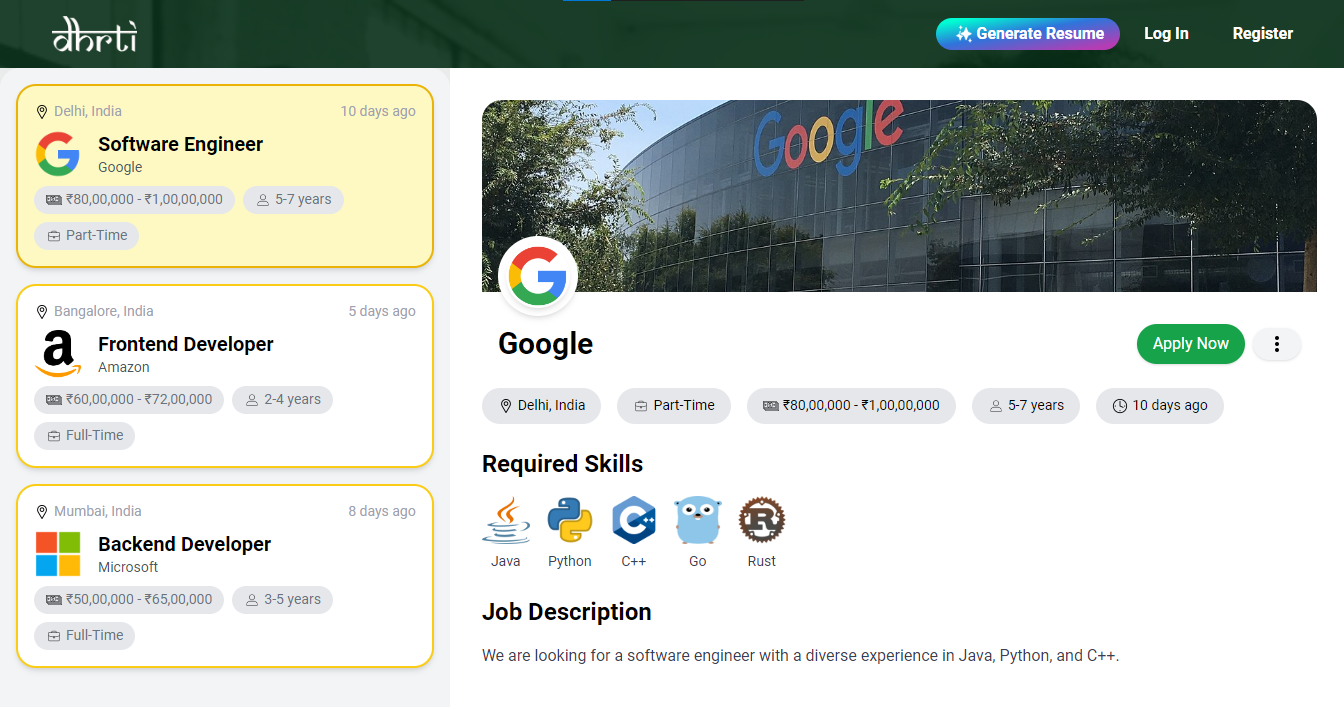
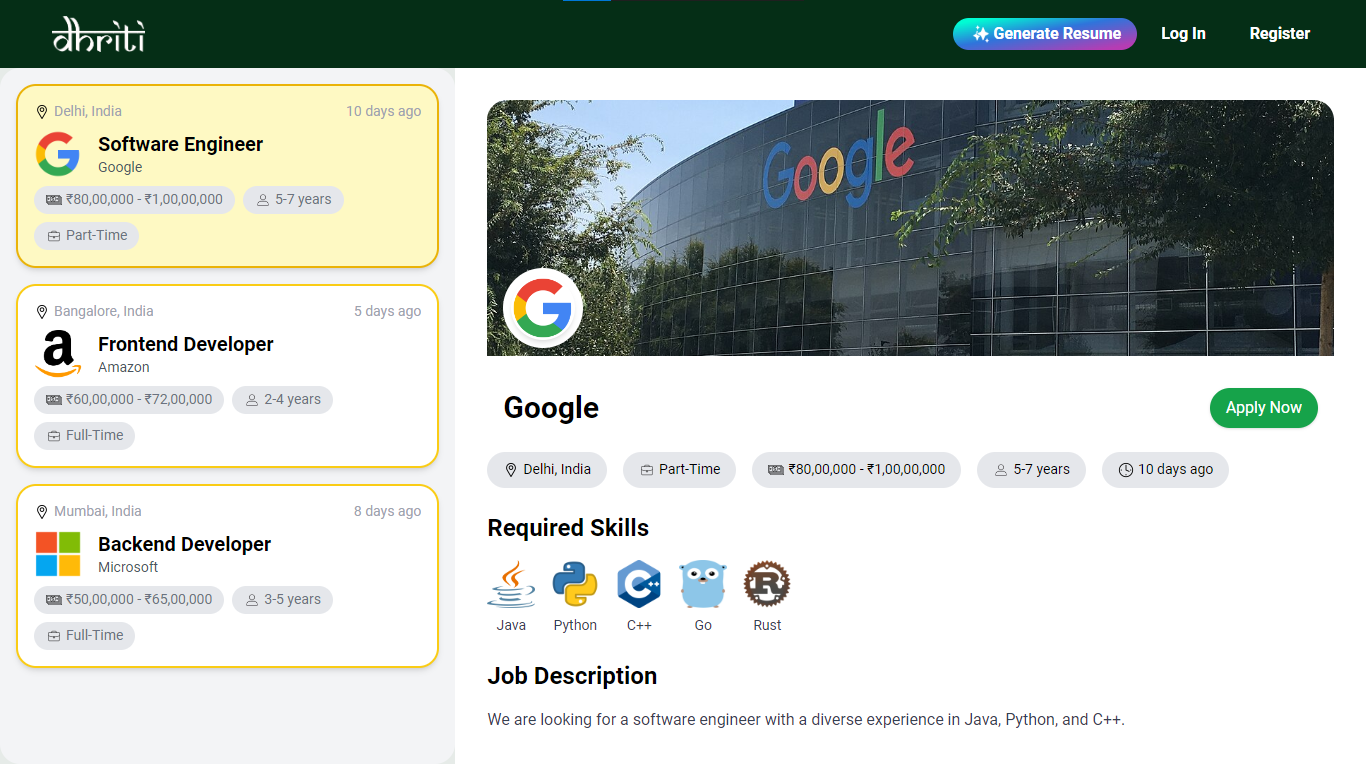
feat: added a deploy script, and changed the job_screen

Changed region(s): [[0.0, 0.0, 1.0, 0.9646], [0.0312, 0.9335, 0.3125, 0.9646], [0.25, 0.7157, 0.3125, 0.7468]]

diff --git a/frontend/src/components/jobs_screen/job_screen.tsx b/frontend/src/components/jobs_screen/job_screen.tsx
@@ -64,16 +64,7 @@ const JobListPage = () => {
     const [selectedJob, setSelectedJob] = useState(jobs[0]);
 
     return (
-        <div
-            className="relative bg-green-950 text-white h-full flex flex-col items-center justify-between"
-            style={{
-                backgroundImage: `url("https://www.shutterstock.com/image-photo/portrait-overjoyed-young-diverse-employees-600nw-2023272488.jpg")`,
-                backgroundSize: "cover",
-                backgroundPosition: "center",
-            }}
-        >
-            <div className="absolute inset-0 bg-green-950 opacity-90"></div>
-
+        <div className="relative bg-green-950 text-white h-full flex flex-col items-center justify-between">
             <div className="w-full z-10">
                 <Header />
             </div>
